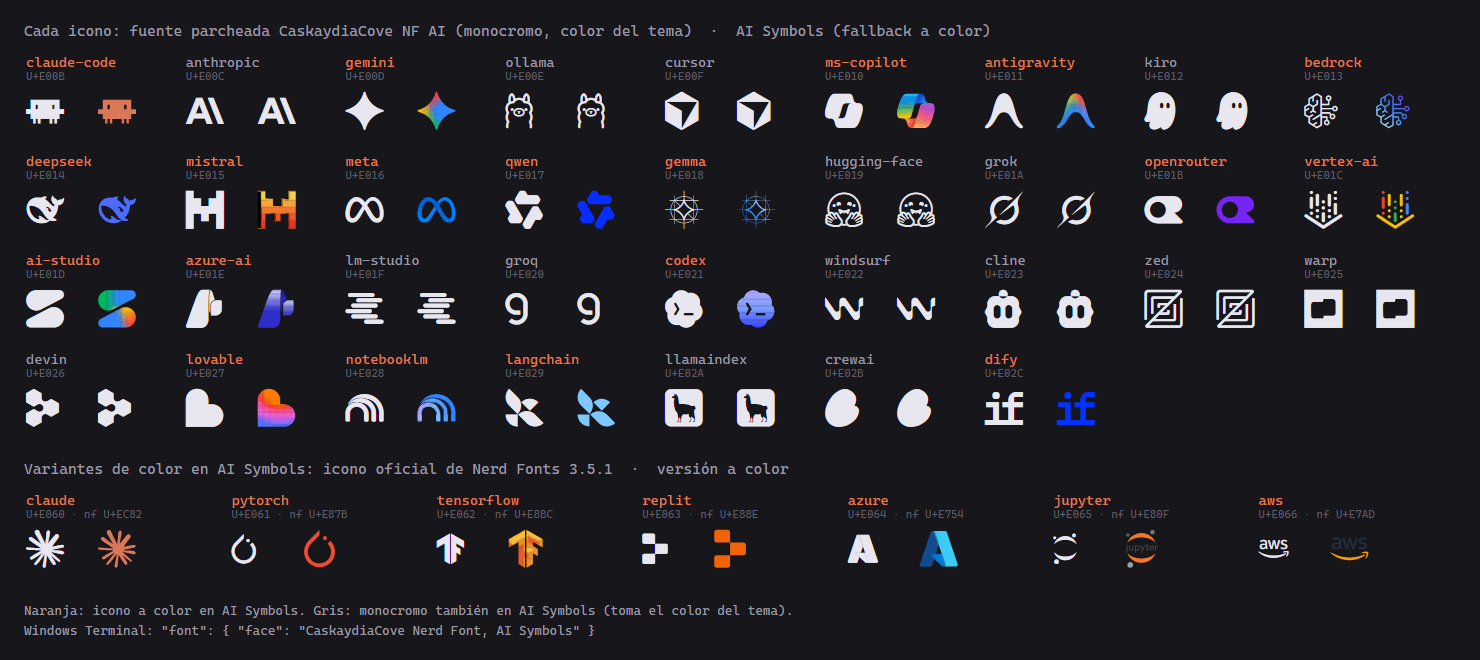
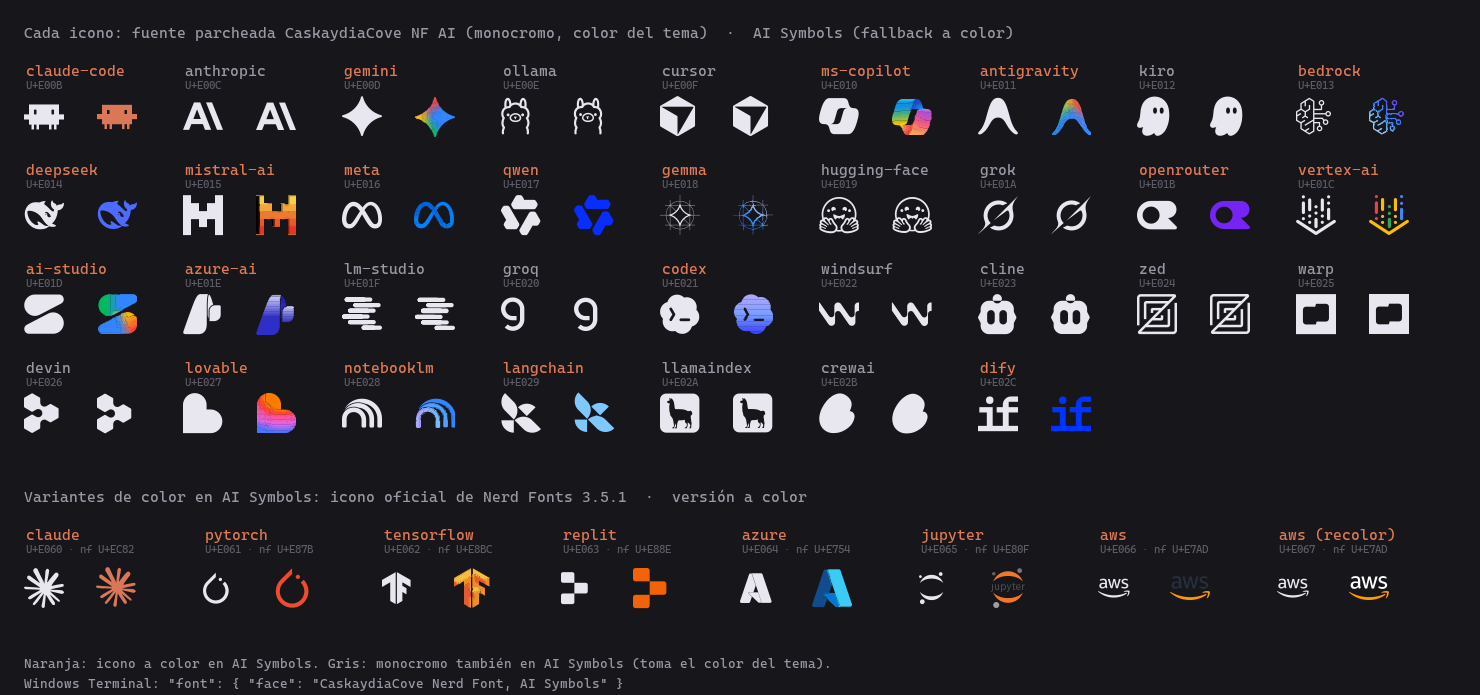
Add AWS with white lettering (U+E067) and preview.py
- icons.toml: optional `recolor` on icons/variants replaces SVG colors
  before the COLR layers are built; the same devicons glyph can repeat
  with a different recolor. New variant U+E067: AWS with white lettering
  for dark backgrounds. U+E066 is now documented as the light-background one.
- build_symbols.py / verify_symbols.py: recolored glyphs are named
  <name>.u<CP> so they don't collide with the original.
- preview.py: regenerates preview.png from icons.toml and the built fonts
  (previously made with a throwaway script). preview.png regenerated.

diff --git a/preview.py b/preview.py
@@ -1,0 +1,103 @@
+"""
+Genera preview.png (la imagen del README) a partir de icons.toml y las fuentes ya construidas.
+
+- Cada [[icon]]: el glifo de la fuente parcheada (monocromo) y el de AI Symbols (a color
+  si tiene color = true)
+- Cada [[variant]]: el icono oficial de Nerd Fonts (nf_cp) y la versión a color de AI Symbols
+- Etiqueta naranja: a color en AI Symbols; gris: monocromo también en AI Symbols
+
+Uso:
+    python preview.py --nerd-font <CaskaydiaCoveNerdFont-Regular.ttf> \
+        --patched <CaskaydiaCoveNerdFontAI-Regular.ttf> --symbols <AISymbols-Regular.ttf> \
+        [-o preview.png]
+"""
+import argparse
+import re
+
+from PIL import Image, ImageDraw, ImageFont
+
+from icons import ICONS, NERD_FONTS, RECOLOR, VARIANTS
+
+WIDTH = 1480
+MARGIN = 24
+COLS = 9             # columnas de [[icon]]
+ROW_H = 99           # alto de cada fila de iconos
+ICON_SIZE = 40       # px del em de los iconos
+TEXT_SIZE = 15
+SMALL_SIZE = 11
+
+BG = (23, 22, 27)
+TEXT = (154, 152, 163)
+DIM = (93, 91, 102)
+ORANGE = (224, 122, 82)
+ICON = (232, 230, 239)
+
+
+def short(name):
+    """Nombre corto de devicons para la etiqueta: google-gemini-icon -> gemini."""
+    name = re.sub(r"-icon$", "", name)
+    name = re.sub(r"^(google|aws)-", "", name)
+    return re.sub(r"^microsoft-(?!azure)", "ms-", name).removeprefix("microsoft-")
+
+
+def main():
+    ap = argparse.ArgumentParser(description="Genera preview.png para el README.")
+    ap.add_argument("--nerd-font", required=True, help="CaskaydiaCove Nerd Font sin parchear (texto e iconos de Nerd Fonts)")
+    ap.add_argument("--patched", required=True, help="CaskaydiaCove NF AI generada por patch_all.py")
+    ap.add_argument("--symbols", required=True, help="AI Symbols (familia NF) generada por build_symbols.py")
+    ap.add_argument("-o", "--out", default="preview.png")
+    args = ap.parse_args()
+
+    text = ImageFont.truetype(args.nerd_font, TEXT_SIZE)
+    small = ImageFont.truetype(args.nerd_font, SMALL_SIZE)
+    footer = ImageFont.truetype(args.nerd_font, 13)
+    nf_icons = ImageFont.truetype(args.nerd_font, ICON_SIZE)
+    patched = ImageFont.truetype(args.patched, ICON_SIZE)
+    symbols = ImageFont.truetype(args.symbols, ICON_SIZE)
+
+    icon_rows = -(-len(ICONS) // COLS)
+    height = MARGIN + 38 + icon_rows * ROW_H + 30 + 38 + ROW_H + 30 + 40
+    img = Image.new("RGB", (WIDTH, height), BG)
+    d = ImageDraw.Draw(img)
+    col_w = (WIDTH - 2 * MARGIN) // COLS
+
+    def cell(x, y, label, cp_text, colored, left, right):
+        d.text((x + 2, y), label, font=text, fill=ORANGE if colored else TEXT)
+        d.text((x + 2, y + 16), cp_text, font=small, fill=DIM)
+        for dx, (font, char) in zip((0, col_w // 2 - 6), (left, right)):
+            d.text((x + dx, y + 30), char, font=font, fill=ICON, embedded_color=True)
+
+    y = MARGIN
+    d.text((MARGIN, y), "Cada icono: fuente parcheada CaskaydiaCove NF AI (monocromo, color del tema)  ·  "
+           "AI Symbols (fallback a color)", font=text, fill=TEXT)
+    y += 38
+    for i, e in enumerate(ICONS):
+        row, col = divmod(i, COLS)
+        cell(MARGIN + col * col_w, y + row * ROW_H, short(e["name"]), f"U+{e['cp']:04X}", e.get("color"),
+             (patched, chr(e["cp"])), (symbols, chr(e["cp"])))
+    y += icon_rows * ROW_H + 30
+
+    d.text((MARGIN, y), f"Variantes de color en AI Symbols: icono oficial de Nerd Fonts {NERD_FONTS}  ·  "
+           "versión a color", font=text, fill=TEXT)
+    y += 38
+    var_w = (WIDTH - 2 * MARGIN) // len(VARIANTS)
+    for i, e in enumerate(VARIANTS):
+        x = MARGIN + i * var_w
+        label = short(e["name"]) + (" (recolor)" if e["cp"] in RECOLOR else "")
+        d.text((x + 2, y), label, font=text, fill=ORANGE)
+        d.text((x + 2, y + 16), f"U+{e['cp']:04X} · nf U+{e['nf_cp']:04X}", font=small, fill=DIM)
+        d.text((x, y + 38), chr(e["nf_cp"]), font=nf_icons, fill=ICON)
+        d.text((x + 72, y + 38), chr(e["cp"]), font=symbols, fill=ICON, embedded_color=True)
+    y += ROW_H + 30
+
+    d.text((MARGIN, y), "Naranja: icono a color en AI Symbols. Gris: monocromo también en AI Symbols "
+           "(toma el color del tema).", font=footer, fill=TEXT)
+    d.text((MARGIN, y + 20), 'Windows Terminal: "font": { "face": "CaskaydiaCove Nerd Font, AI Symbols" }',
+           font=footer, fill=TEXT)
+
+    img.save(args.out, optimize=True)
+    print(f"{args.out}: {img.width}x{img.height}")
+
+
+if __name__ == "__main__":
+    main()

diff --git a/build_symbols.py b/build_symbols.py
@@ -12,7 +12,8 @@ Windows Terminal: "font": {"face": "CaskaydiaCove Nerd Font, AI Symbols"}.
   igual que en la fuente parcheada y toma el color del tema
 - COLOR_VARIANTS: versiones a color de iconos que Nerd Fonts ya tiene en monocromo
   (nf-cod-claude, nf-dev-pytorch...), en su propio bloque y solo en AI Symbols
-- COLR v0 + CPAL para COLOR_ICONS y COLOR_VARIANTS, con los colores del sprite SVG de devicons:
+- COLR v0 + CPAL para COLOR_ICONS y COLOR_VARIANTS, con los colores del sprite SVG de devicons
+  (tras aplicar `recolor` de icons.toml):
   * un solo color  -> una capa con el contorno completo
   * degradados / mallas / desenfoques -> el contorno troceado en GRID x GRID teselas,
     cada una con el color medio del SVG renderizado en esa zona (Windows Terminal
@@ -39,7 +40,8 @@ from fontTools.pens.ttGlyphPen import TTGlyphPen
 from fontTools.ttLib import TTFont
 from PIL import Image
 
-from icons import ALL_ICONS, COLOR_ICONS, COLOR_VARIANTS, DEVICONS, SYMBOLS_FAMILIES as FAMILIES
+from icons import (ALL_ICONS, COLOR_ICONS, COLOR_VARIANTS, DEVICONS, GLYPH_NAMES, RECOLOR,
+                   SYMBOLS_FAMILIES as FAMILIES)
 from patch_all import GLYPH_PREFIX, icon_transform
 
 GRID = 32            # teselas por lado
@@ -61,13 +63,18 @@ def reference_metrics(path):
     return metrics
 
 
-def sprite_svg(sprite, name):
-    """SVG independiente de un <symbol> del sprite de devicons."""
+def sprite_svg(sprite, name, recolor=None):
+    """SVG independiente de un <symbol> del sprite de devicons, con `recolor` aplicado."""
     m = re.search(r'<symbol([^>]*?)\bid="%s"([^>]*)>(.*?)</symbol>' % re.escape(name), sprite, re.S)
     if not m:
         raise KeyError(f"{name} no está en sprite-symbol.svg")
     view_box = re.search(r'viewBox="([^"]+)"', m.group(1) + m.group(2)).group(1)
-    return f'<svg xmlns="http://www.w3.org/2000/svg" viewBox="{view_box}">{m.group(3)}</svg>', view_box
+    body = m.group(3)
+    for old, new in (recolor or {}).items():
+        body, n = re.subn(re.escape(old) + r'(?=["\s;])', new, body, flags=re.I)
+        if not n:
+            raise ValueError(f"{name}: recolor {old} no aparece en el SVG")
+    return f'<svg xmlns="http://www.w3.org/2000/svg" viewBox="{view_box}">{body}</svg>', view_box
 
 
 def render(svg):
@@ -100,13 +107,13 @@ def to_glyph(path, matrix):
     return pen.glyph()
 
 
-def color_layers(dev, name, sprite):
+def color_layers(dev, name, sprite, recolor=None):
     """[(pathops.Path en unidades de devicons, (r, g, b))] del icono a color."""
     dev_upm = dev["head"].unitsPerEm
     outline = pathops.Path()
     dev.getGlyphSet()[name].draw(outline.getPen())
 
-    svg, view_box = sprite_svg(sprite, name)
+    svg, view_box = sprite_svg(sprite, name, recolor)
     if [float(v) for v in view_box.split()][2:] != [600.0, 600.0]:
         # devicons dibuja cada SVG de 600x600 sobre su em de 1000 (y invertida)
         raise ValueError(f"{name}: viewBox inesperado {view_box}")
@@ -167,7 +174,7 @@ def build(dev, sprite, kind, metrics, out_dir):
     color_glyphs, palette, palette_index = {}, [], {}
 
     for cp, src_name in sorted(ALL_ICONS.items()):
-        name = GLYPH_PREFIX + src_name
+        name = GLYPH_PREFIX + GLYPH_NAMES[cp]
         matrix, _ = icon_transform(dev, src_name, upm, center_y, cell, kind)
         pen = TTGlyphPen(None)
         gs[src_name].draw(TransformPen(pen, matrix))
@@ -177,7 +184,7 @@ def build(dev, sprite, kind, metrics, out_dir):
         if src_name not in COLOR_ICONS and cp not in COLOR_VARIANTS:
             continue
         layers = []
-        for k, (path, rgb) in enumerate(color_layers(dev, src_name, sprite)):
+        for k, (path, rgb) in enumerate(color_layers(dev, src_name, sprite, RECOLOR.get(cp))):
             layer = f"{name}.c{k:03d}"
             glyphs[layer] = to_glyph(path, matrix)
             if rgb not in palette_index:

diff --git a/icons.py b/icons.py
@@ -2,7 +2,8 @@
 Carga y valida icons.toml. Los scripts importan de aquí GLYPH_MAP, COLOR_ICONS,
 COLOR_VARIANTS y las versiones de upstream. Solo usa la biblioteca estándar (Python 3.11+).
 
-Validación: codepoints y nombres sin repetir, dentro de [range], campos obligatorios.
+Validación: codepoints y nombres sin repetir (un mismo glifo puede repetirse con otro
+recolor), dentro de [range], campos obligatorios.
 
 Uso:
     python icons.py check                 valida y muestra el siguiente codepoint libre
@@ -55,11 +56,17 @@ def load(path=TOML_PATH):
                 errors.append(f"{where}: U+{e['cp']:04X} fuera del rango U+{start:04X}–{end:04X}")
             if e["cp"] in seen_cp:
                 errors.append(f"{where}: U+{e['cp']:04X} repetido (también en {seen_cp[e['cp']]})")
-            if e["name"] in seen_name:
-                errors.append(f"{where}: glifo repetido (también en {seen_name[e['name']]})")
+            recolor = e.get("recolor", {})
+            if not isinstance(recolor, dict) or not all(
+                    re.fullmatch(r"#[0-9A-Fa-f]{3}([0-9A-Fa-f]{3})?", c) for kv in recolor.items() for c in kv):
+                errors.append(f"{where}: recolor debe ser una tabla {{ \"#rrggbb\" = \"#rrggbb\" }}")
+                recolor = {}
+            key = (e["name"], tuple(sorted(recolor.items())))
+            if key in seen_name:
+                errors.append(f"{where}: glifo repetido (también en {seen_name[key]})")
             if not isinstance(e.get("color", False), bool):
                 errors.append(f"{where}: color debe ser true o false")
-            seen_cp[e["cp"]], seen_name[e["name"]] = where, where
+            seen_cp[e["cp"]], seen_name[key] = where, where
 
     if errors:
         raise ValueError("icons.toml no es válido:\n  " + "\n  ".join(errors))
@@ -77,6 +84,10 @@ COLOR_ICONS = {e["name"] for e in ICONS if e.get("color")}
 # Versiones a color de iconos de Nerd Fonts; solo en AI Symbols, siempre a color
 COLOR_VARIANTS = {e["cp"]: e["name"] for e in VARIANTS}
 ALL_ICONS = {**GLYPH_MAP, **COLOR_VARIANTS}
+# Colores del SVG que se sustituyen antes de renderizarlo (p. ej. letras de AWS en blanco)
+RECOLOR = {e["cp"]: e["recolor"] for e in ICONS + VARIANTS if e.get("recolor")}
+# Nombre del glifo en AI Symbols; los recoloreados llevan el codepoint para no chocar
+GLYPH_NAMES = {cp: f"{name}.u{cp:04X}" if cp in RECOLOR else name for cp, name in ALL_ICONS.items()}
 
 # Familias de AI Symbols (build_symbols.py y verify_symbols.py)
 SYMBOLS_FAMILIES = {"nf": "AI Symbols", "mono": "AI Symbols Mono"}

diff --git a/verify_symbols.py b/verify_symbols.py
@@ -19,7 +19,7 @@ import sys
 
 from fontTools.ttLib import TTFont
 
-from icons import ALL_ICONS, COLOR_ICONS, COLOR_VARIANTS, SYMBOLS_FAMILIES as FAMILIES
+from icons import ALL_ICONS, COLOR_ICONS, COLOR_VARIANTS, GLYPH_NAMES, SYMBOLS_FAMILIES as FAMILIES
 from patch_all import GLYPH_PREFIX
 
 TOLERANCE = 2  # unidades de redondeo
@@ -49,16 +49,16 @@ def check(path, kind):
 
     for table in font["cmap"].tables:
         if table.isUnicode():
-            for cp, src_name in ALL_ICONS.items():
-                if table.cmap.get(cp) != GLYPH_PREFIX + src_name:
+            for cp in ALL_ICONS:
+                if table.cmap.get(cp) != GLYPH_PREFIX + GLYPH_NAMES[cp]:
                     errors.append(f"cmap ({table.platformID},{table.platEncID},f{table.format}) sin U+{cp:04X}")
 
     widths = {hmtx[n][0] for n in order if n != ".notdef"}
     if widths != {cell}:
         errors.append(f"avances distintos de la celda: {sorted(widths)}")
 
-    for cp, src_name in ALL_ICONS.items():
-        x0, y0, x1, y1 = bounds(glyf, GLYPH_PREFIX + src_name)
+    for cp in ALL_ICONS:
+        x0, y0, x1, y1 = bounds(glyf, GLYPH_PREFIX + GLYPH_NAMES[cp])
         if x1 - x0 > box + TOLERANCE or y1 - y0 > box + TOLERANCE:
             errors.append(f"U+{cp:04X} {x1 - x0}x{y1 - y0} excede la caja {box}")
         if kind == "mono" and (x0 < -TOLERANCE or x1 > cell + TOLERANCE):
@@ -68,7 +68,8 @@ def check(path, kind):
 
     colr = font["COLR"]
     palette = font["CPAL"].palettes[0]
-    color_bases = {GLYPH_PREFIX + n for n in COLOR_ICONS | set(COLOR_VARIANTS.values())}
+    color_bases = {GLYPH_PREFIX + GLYPH_NAMES[cp] for cp, n in ALL_ICONS.items()
+                   if n in COLOR_ICONS or cp in COLOR_VARIANTS}
     if set(colr.ColorLayers) != color_bases:
         errors.append(f"COLR para {sorted(colr.ColorLayers)}, se esperaba {sorted(color_bases)}")
     for base, layers in colr.ColorLayers.items():

diff --git a/README.md b/README.md
@@ -126,7 +126,8 @@ AI Symbols also has **color versions** of some icons that Nerd Fonts ships in mo
 | `U+E063` | `U+E88E` `nf-dev-replit` | Replit |
 | `U+E064` | `U+E754` `nf-dev-azure` | Azure |
 | `U+E065` | `U+E80F` `nf-dev-jupyter` | Jupyter |
-| `U+E066` | `U+E7AD` `nf-dev-aws` | AWS (the dark "aws" lettering is hard to see on dark backgrounds) |
+| `U+E066` | `U+E7AD` `nf-dev-aws` | AWS (dark lettering, for light backgrounds) |
+| `U+E067` | `U+E7AD` `nf-dev-aws` | AWS (white lettering, for dark backgrounds) |
 
 <!-- /generated:variants -->
 
@@ -205,6 +206,8 @@ Icons and upstream versions live in [`icons.toml`](icons.toml), the only place t
 2. Add an `[[icon]]` with the next free codepoint, which `python icons.py check` prints. Add `color = true` if the brand colors of the SVG should be used in AI Symbols.
 3. Run `python icons.py readme` to update the tables, and open a pull request.
 
+If a logo is hard to see on dark backgrounds, add a `[[variant]]` with `recolor = { "#old" = "#new" }`. The colors are replaced in the SVG before the color layers are built, and the same devicons glyph can be reused with different colors (this is how `U+E067`, AWS with white lettering, is made).
+
 `icons.py` rejects repeated codepoints or glyph names, codepoints outside `U+E00B–E09F`, and missing fields.
 
 ## CI
@@ -236,7 +239,11 @@ python verify.py <folder-with-ttf> Patched
 
 python build_symbols.py --devicons-pkg <devicons\package> --reference <folder-with-ttf>\CaskaydiaCoveNerdFont-Regular.ttf -o Symbols
 python verify_symbols.py Symbols
+
+python preview.py --nerd-font <folder-with-ttf>\CaskaydiaCoveNerdFont-Regular.ttf --patched Patched\CaskaydiaCoveNerdFont-Regular-AI.ttf --symbols Symbols\AISymbols-Regular.ttf
 ```
+
+`preview.py` regenerates `preview.png`, the image at the top of this README, from `icons.toml` and the built fonts.
 
 AI Symbols needs the whole devicons package (`dist/devicons.ttf` and `dist/sprite-symbol.svg`).
 
@@ -261,4 +268,4 @@ AI Symbols needs the whole devicons package (`dist/devicons.ttf` and `dist/sprit
 - **Fonts**: SIL Open Font License 1.1 — see [`OFL.txt`](OFL.txt). This applies to Cascadia Code (© Microsoft, Reserved Font Name *Cascadia Code*), to the Nerd Fonts patches, and to these modified versions, which must remain under the OFL.
 - **Icons**: from [devicons](https://github.com/vorillaz/devicons) (MIT). The logos are trademarks of their respective owners and are included only to identify those tools.
 - **AI Symbols**: built only from devicons glyphs and SVGs (MIT).
-- **Scripts** (`icons.py`, `patch_all.py`, `verify.py`, `build_symbols.py`, `verify_symbols.py`): GNU GPL v3 — see [`LICENSE`](LICENSE).
+- **Scripts** (`icons.py`, `patch_all.py`, `verify.py`, `build_symbols.py`, `verify_symbols.py`, `preview.py`): GNU GPL v3 — see [`LICENSE`](LICENSE).
